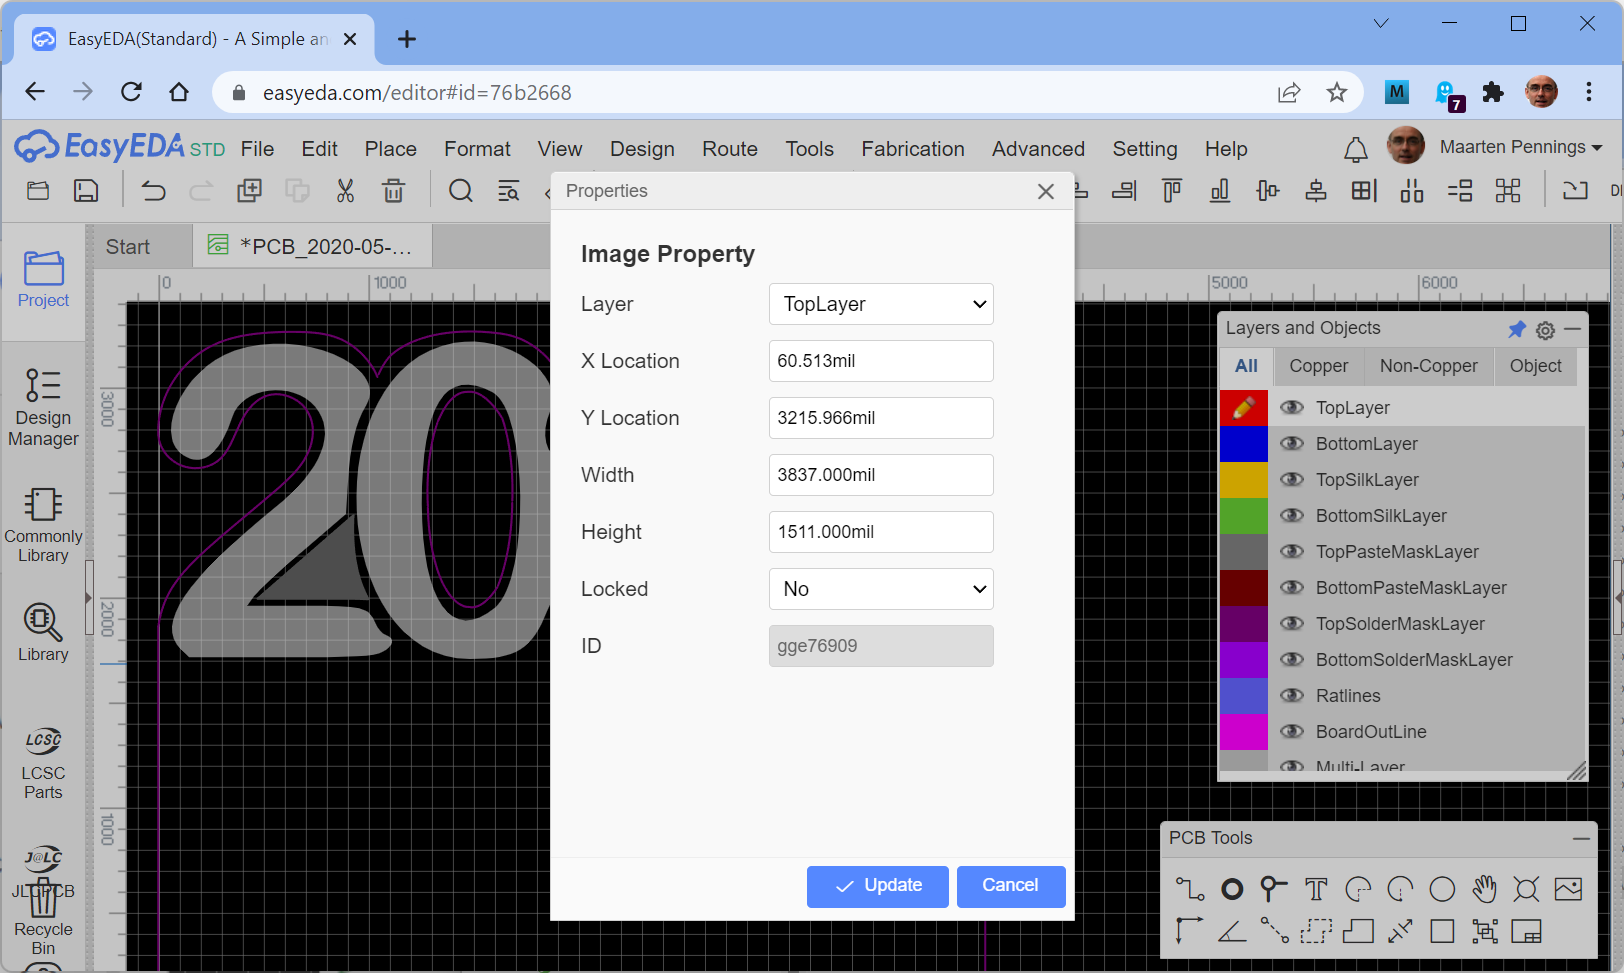
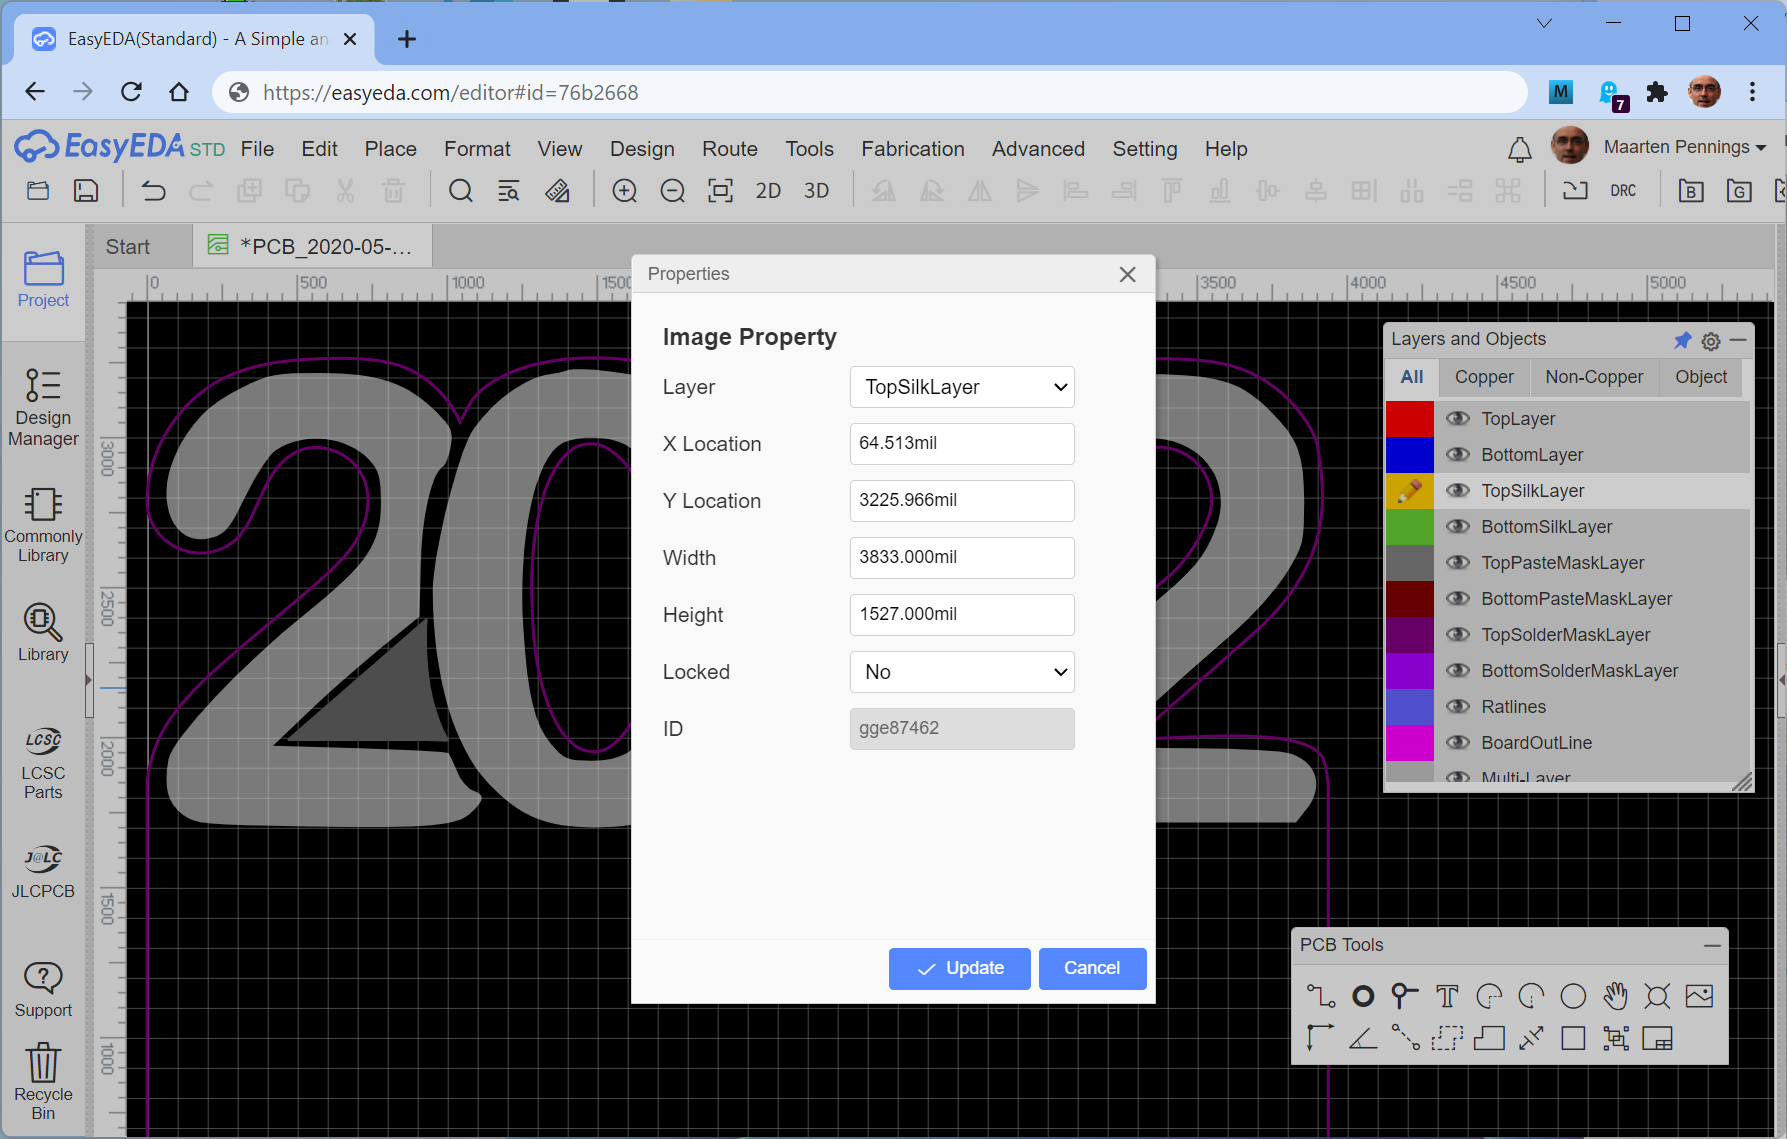
TopSilkLayer

diff --git a/pcboutline/readme.md b/pcboutline/readme.md
@@ -103,15 +103,16 @@ In an image editing programs (MS Paint), I added some white between the digits.
 ![letters before](letters.png) ![letters after](letters-edited.png)
 
 In the [EasyEDA](https://easyeda.com) PCB editor, start by selecting the 
-correct layer for the import - in our case the `Toplayer`. 
+correct layer for the import - in our case the `TopSilklayer`. 
 
-![Silk print - top layer](easyeda-png0.png)
+![Silk print - top silk layer](easyeda-png0.png)
 
 
 Next start the dialog to import the png file. 
 
 ![Silk print - dialog](easyeda-png1.png)
 
+Select `letters-edited.png` as image file.
 Note that EasyEDA doesn't care about black or gray, it imports the png in two-tone (black and white) - this
 is governed by the `Color Tolerance` slider.
 
@@ -122,13 +123,14 @@ The aspect ratio is maintained.
 ![Silk print - size](easyeda-png2.png)
 
 Now drag the image to the correct position.
-If the image is a bit off in size, or on the wrong layer, right click and select Properties.
+If the image is a bit off in size, or on the wrong layer, right click and select `Properties`.
 In the window that pops-up the width, height, layer can be changed.
 Note that here the aspect ratio is _not_ maintained.
+You can not select the units in this windows; our 97.4mm is rendered as 3833mil.
 
 ![Silk print - properties](easyeda-png3.png)
 
-This is also available in the panel on the right (View > Right-Hand Panel)
+This is also available in the panel on the right `View > Right-Hand Panel` - assuming the image is selected (white).
 
 ![Silk print - panel](easyeda-png4.png)
 
